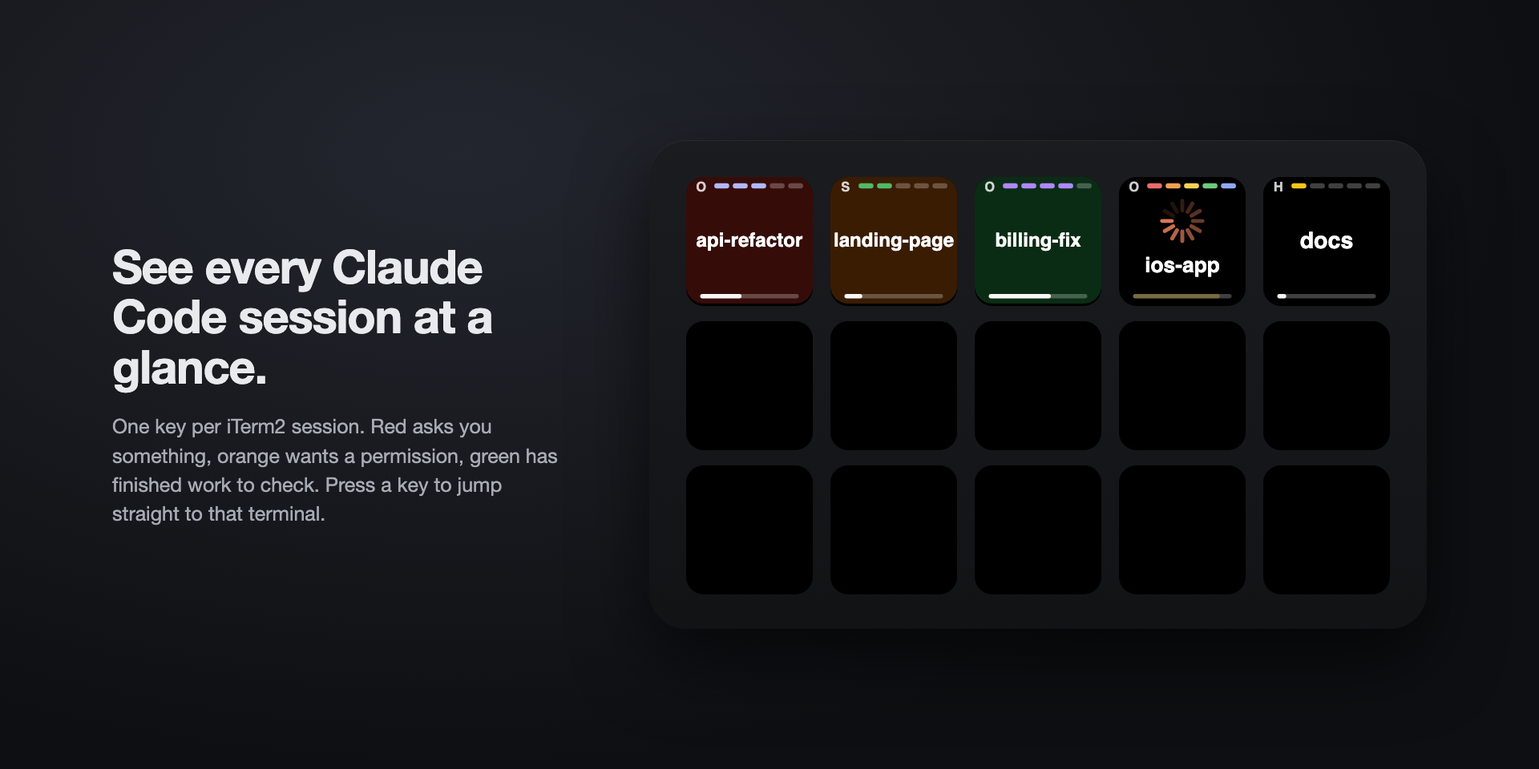
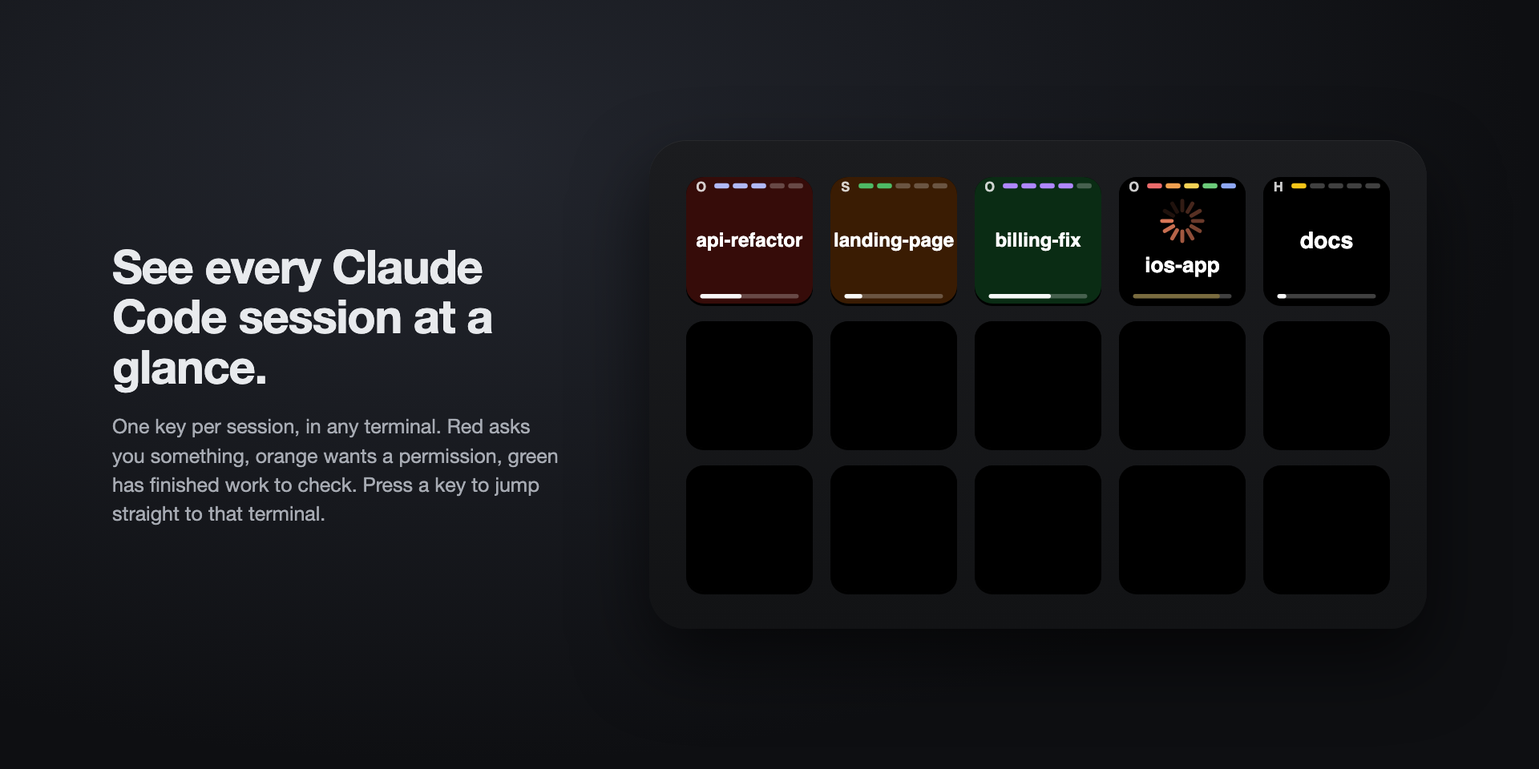
Support any terminal, not just iTerm2 (v1.1.0)
The hook now records the terminal app (bundle id), tty and claude pid
for every session; sessions outside iTerm2 get a cc-<session id> status
file and are listed while their claude process is alive. Pressing a key
jumps to the exact tab in iTerm2 and Terminal, the pane in WezTerm, and
brings other terminals (Ghostty, Warp, kitty, VS Code...) to the front.

Claude-Session: https://claude.ai/code/session_01APigmyGnM7qXp74xMqsF5G

Changed region(s): [[0.0625, 0.5312, 0.3438, 0.6562]]

diff --git a/io.github.jacopopiogargano.ccstatus.sdPlugin/bin/hook-src.js b/io.github.jacopopiogargano.ccstatus.sdPlugin/bin/hook-src.js
@@ -1,2 +1,2 @@
 // Generated by tools/embed-hook.js from src/hook.py. Do not edit.
-module.exports = "#!/usr/bin/python3\n\"\"\"Session Status for Claude Code: hook that records this iTerm session's Claude state for the Stream Deck plugin.\n\nInstalled by the plugin to ~/.claude/session-status/hook.py. Writes ~/.claude/session-status/<iTerm session id>.json. Never blocks or fails the hook.\nOn Stop, decides whether Claude's last message needs a reply (\"waiting\") or not (\"done\"):\na quick heuristic first; if enabled in the plugin settings, a background Haiku classification refines it.\n\"\"\"\nimport json, os, re, shutil, subprocess, sys, time\n\nFOLDER = os.path.expanduser(\"~/.claude/session-status\")\n# only real asks count: a question mark, or phrasing that hands the turn to the user\nASKY = re.compile(r\"\\?|\\b(want me to|should i|shall i|which (one|option)|let me know|your call|\"\n                  r\"tell me (which|what|if)|pick (one|\\d)|say \\\"?go\\\"?)\\b\", re.I)\nLOG = os.path.join(FOLDER, \"classify.log\")\n\n\ndef hook_config():\n    \"\"\"Settings the plugin writes for the hook: {\"haiku\": bool, \"claude\": optional path}.\"\"\"\n    try:\n        with open(os.path.join(FOLDER, \"config.json\")) as f:\n            return json.load(f)\n    except Exception:\n        return {}\n\n\ndef claude_bin(cfg):\n    for c in (cfg.get(\"claude\"), shutil.which(\"claude\"), os.path.expanduser(\"~/.local/bin/claude\"),\n              \"/opt/homebrew/bin/claude\", \"/usr/local/bin/claude\"):\n        if c and os.path.isfile(c) and os.access(c, os.X_OK):\n            return c\n    return None\n\n\ndef write(path, **fields):\n    if \"started\" not in fields:\n        try:\n            with open(path) as f:\n                old = json.load(f).get(\"started\")\n            if old:\n                fields[\"started\"] = old\n        except Exception:\n            pass\n    tmp = path + \".tmp\"\n    with open(tmp, \"w\") as f:\n        json.dump(fields, f)\n    os.replace(tmp, path)\n\n\ndef last_assistant_text(data):\n    if data.get(\"last_assistant_message\"):\n        return data[\"last_assistant_message\"]\n    try:\n        with open(data[\"transcript_path\"]) as f:\n            lines = f.readlines()[-200:]\n    except Exception:\n        return \"\"\n    for line in reversed(lines):\n        try:\n            e = json.loads(line)\n        except Exception:\n            continue\n        if e.get(\"type\") != \"assistant\":\n            continue\n        content = (e.get(\"message\") or {}).get(\"content\") or []\n        text = \"\".join(c.get(\"text\", \"\") for c in content if isinstance(c, dict) and c.get(\"type\") == \"text\")\n        if text.strip():\n            return text\n    return \"\"\n\n\nEFFORT = re.compile(rb'\"output_config\":\\{[^}]*?\"effort\":\"(\\w+)\"')\nMODEL = re.compile(rb'\"model\":\"claude-([a-z]+)')\nSTAMP = re.compile(rb'\"timestamp\":\"(\\d{4}-\\d\\d-\\d\\dT\\d\\d:\\d\\d:\\d\\d)')\nUSAGE = re.compile(rb'\"usage\":\\{\"input_tokens\":(\\d+),\"cache_creation_input_tokens\":(\\d+),\"cache_read_input_tokens\":(\\d+)')\n\n\ndef settings():\n    try:\n        with open(os.path.expanduser(\"~/.claude/settings.json\")) as f:\n            return json.load(f)\n    except Exception:\n        return {}\n\n\ndef session_info(data):\n    \"\"\"(effort, context tokens, context % of the auto-compact window) from the session transcript tail.\"\"\"\n    effort, ctx, model, started = None, None, None, None\n    try:\n        with open(data[\"transcript_path\"], \"rb\") as f:\n            m = STAMP.search(f.read(65536))\n        if m:\n            import calendar\n            started = calendar.timegm(time.strptime(m.group(1).decode(), \"%Y-%m-%dT%H:%M:%S\"))\n    except Exception:\n        pass\n    try:\n        with open(data[\"transcript_path\"], \"rb\") as f:\n            f.seek(0, 2); f.seek(max(0, f.tell() - 600_000))\n            tail = f.read()\n        hits = EFFORT.findall(tail)\n        effort = hits[-1].decode() if hits else None\n        u = USAGE.findall(tail)\n        ctx = sum(int(x) for x in u[-1]) if u else None\n        mm = MODEL.findall(tail)\n        model = mm[-1].decode() if mm else None\n    except Exception:\n        pass\n    if isinstance(data.get(\"model\"), dict):\n        model = (data[\"model\"].get(\"id\") or \"\").replace(\"claude-\", \"\").split(\"-\")[0] or model\n    if isinstance(data.get(\"effort\"), dict):\n        effort = data[\"effort\"].get(\"level\") or effort\n    elif data.get(\"effort\"):\n        effort = data[\"effort\"]\n    cfg = settings()\n    effort = effort or cfg.get(\"effortLevel\")  # fresh session, no request yet: configured default\n    window = cfg.get(\"autoCompactWindow\") or 200_000\n    pct = round(100 * ctx / window) if ctx is not None else None\n    info = {\"effort\": effort, \"ctx\": ctx, \"ctx_pct\": pct, \"model\": model}\n    if started:\n        info[\"started\"] = started\n    return info\n\n\nFOLLOW = re.compile(r\"\\b(installed|deployed|pushed|fixed|added|updated|built|changed|now (shows|has|uses)|next step|you('ll| will) need to|please (check|test|try|run|restart|review|look)|\"\n                    r\"tell me (if|whether)|let me know (if|whether)|try it|check (it|that|on)|restart)\\b\", re.I)\n\n\ndef heuristic(text):\n    \"\"\"Quick first guess; Haiku refines it. waiting = needs an answer, done = follow-up for the user, idle = nothing.\"\"\"\n    tail = text.strip()[-300:]\n    return \"waiting\" if ASKY.search(tail) else \"done\" if FOLLOW.search(text.strip()[-800:]) else \"idle\"\n\n\ndef classify_later(path, text, stamp):\n    \"\"\"Detach and ask Haiku whether the message needs a reply; update only if nothing newer happened.\"\"\"\n    if os.fork():\n        return\n    os.setsid()\n    if os.fork():\n        os._exit(0)\n    try:\n        prompt = (\"Classify the final message an AI coding assistant sent to its user.\\n\"\n                  \"WAITING = the message explicitly asks the user something: a direct question, a request to pick \"\n                  \"or choose between options, to confirm/approve, to provide information, or to say 'go'.\\n\"\n                  \"FOLLOWUP = no question, but there is something for the user to look at: the assistant built, \"\n                  \"changed, fixed, installed, deployed or pushed something the user would want to check out or try, \"\n                  \"or it left a step for the user (a test, restart, setting, merge, something unverified).\\n\"\n                  \"DONE = nothing new to look at: an answer, an explanation, an investigation that changed nothing, \"\n                  \"a plain acknowledgement, or a report that nothing needed changing.\\n\"\n                  \"Examples:\\n\"\n                  \"'Which option do you prefer, A or B?' -> WAITING\\n\"\n                  \"'Pick 3 and I will build them.' -> WAITING\\n\"\n                  \"'Fixed and installed. Restart the app and check the key turns dark.' -> FOLLOWUP\\n\"\n                  \"'Pushed to dev. The release still needs dev merged into main.' -> FOLLOWUP\\n\"\n                  \"'Tests pass and the fix is deployed.' -> FOLLOWUP (a finished change worth trying)\\n\"\n                  \"'Added the dark mode toggle to the settings page.' -> FOLLOWUP\\n\"\n                  \"'Done. Say if you want the old layout back.' (after making a change) -> FOLLOWUP\\n\"\n                  \"'The bug was caused by X; here is how it works.' -> DONE\\n\"\n                  \"'The file already has that setting, nothing to change.' -> DONE\\n\"\n                  \"'Ciao! Everything is saved.' -> DONE\\n\"\n                  \"'Red now means the session is asking you something; green means a next step.' -> DONE \"\n                  \"(it describes questions, it does not ask one)\\n\"\n                  \"Only an actual request addressed to the user counts as WAITING, not text that talks about questions.\\n\"\n                  \"When the assistant delivered or changed something, prefer FOLLOWUP over DONE.\\n\"\n                  \"Judge the message as a whole, mainly its ending. \"\n                  \"Reply with exactly one word: WAITING, FOLLOWUP or DONE.\\n\\n<message>\\n\" + text[-4000:] + \"\\n</message>\")\n        env = {k: v for k, v in os.environ.items() if k not in (\"ITERM_SESSION_ID\", \"CLAUDECODE\")}\n        out = subprocess.run(\n            [CLAUDE, \"-p\", \"--model\", \"haiku\", \"--no-session-persistence\",\n             \"--settings\", '{\"disableAllHooks\": true}', prompt],\n            capture_output=True, text=True, timeout=60, env=env, stdin=subprocess.DEVNULL).stdout.upper()\n        # deck states: waiting = red, done = green (follow-up for the user), idle = nothing to do\n        verdict = \"waiting\" if \"WAITING\" in out else \"done\" if \"FOLLOWUP\" in out else \"idle\" if \"DONE\" in out else None\n        if verdict == \"waiting\" and not ASKY.search(text.strip()[-600:]):\n            verdict = \"done\"  # no question or hand-over phrase near the end: at most a follow-up\n        applied = False\n        if verdict:\n            with open(path) as f:\n                cur = json.load(f)\n            if cur.get(\"ts\") == stamp:  # no newer hook event since this Stop\n                cur.update(state=verdict, judged=\"haiku\")\n                write(path, **cur)\n                applied = True\n        with open(LOG, \"a\") as f:\n            f.write(json.dumps({\"ts\": stamp, \"took\": round(time.time() - stamp, 1), \"sid\": os.path.basename(path)[:8],\n                                \"heuristic\": heuristic(text), \"haiku\": verdict, \"raw\": out[:40], \"applied\": applied,\n                                \"tail\": text.strip()[-120:]}) + \"\\n\")\n    except Exception as e:\n        try:\n            with open(LOG, \"a\") as f:\n                f.write(json.dumps({\"ts\": stamp, \"error\": repr(e)[:300]}) + \"\\n\")\n        except Exception:\n            pass\n    os._exit(0)\n\n\ndef headless_claude():\n    \"\"\"True if this hook was fired by a non-interactive `claude -p` run (e.g. one an app spawned from this tab).\"\"\"\n    pid = os.getppid()\n    for _ in range(4):\n        try:\n            out = subprocess.run([\"/bin/ps\", \"-o\", \"ppid=,command=\", \"-p\", str(pid)], capture_output=True, text=True, timeout=2).stdout.strip()\n        except Exception:\n            return False\n        if not out:\n            return False\n        ppid, _, cmd = out.partition(\" \")\n        args = cmd.split()\n        if args and os.path.basename(args[0]) == \"claude\":\n            return \"-p\" in args or \"--print\" in args\n        pid = int(ppid)\n    return False\n\n\ntry:\n    data = json.load(sys.stdin)\n    if headless_claude():\n        sys.exit(0)\n    iterm = os.environ.get(\"ITERM_SESSION_ID\", \"\")  # e.g. \"w0t1p0:6A1B2C3D-...\"\n    if not iterm:\n        sys.exit(0)\n    sid = iterm.split(\":\")[-1]\n    os.makedirs(FOLDER, exist_ok=True)\n    path = os.path.join(FOLDER, sid + \".json\")\n    event = data.get(\"hook_event_name\", \"\")\n    cwd = data.get(\"cwd\") or os.getcwd()\n\n    if event == \"SessionEnd\":\n        if os.path.exists(path):\n            os.remove(path)\n        sys.exit(0)\n\n    if event == \"Stop\":\n        text = last_assistant_text(data)\n        stamp = time.time()\n        write(path, state=heuristic(text), cwd=cwd, event=event, ts=stamp, judged=\"heuristic\", **session_info(data),\n              session=(data.get(\"session_id\") or \"\")[:8])\n        hc = hook_config()\n        CLAUDE = claude_bin(hc) if hc.get(\"haiku\") else None\n        if text.strip() and CLAUDE:\n            classify_later(path, text, stamp)\n        sys.exit(0)\n\n    state = {\"SessionStart\": \"idle\", \"UserPromptSubmit\": \"working\", \"PreToolUse\": \"working\",\n             \"PostToolUse\": \"working\"}.get(event)\n    # Claude is blocked on the user: question box, plan approval, permission dialog\n    if event == \"PermissionRequest\" or (event == \"PreToolUse\" and data.get(\"tool_name\") in (\"AskUserQuestion\", \"ExitPlanMode\")):\n        state = \"waiting\"\n    if event == \"Notification\":\n        kind = data.get(\"notification_type\", \"\")\n        msg = (data.get(\"message\") or \"\").lower()\n        if kind == \"idle_prompt\" or \"waiting for your input\" in msg:\n            sys.exit(0)  # idle reminder: keep whatever Stop decided\n        state = \"waiting\"  # permission prompt etc.\n    if not state:\n        sys.exit(0)\n    # waiting kind: \"perm\" = permission dialog (quick approve), \"ask\" = question/plan for the user\n    kind = None\n    if state == \"waiting\":\n        if data.get(\"tool_name\") in (\"AskUserQuestion\", \"ExitPlanMode\"):\n            kind = \"ask\"\n        elif event == \"PermissionRequest\" or data.get(\"notification_type\") == \"permission_prompt\":\n            kind = \"perm\"\n        else:  # other notification: keep what the earlier event decided\n            try:\n                with open(path) as f:\n                    kind = json.load(f).get(\"kind\") or \"perm\"\n            except Exception:\n                kind = \"perm\"\n    write(path, state=state, kind=kind, cwd=cwd, event=event, ts=time.time(), tool=data.get(\"tool_name\"),\n          agent=data.get(\"agent_id\") or data.get(\"agent_type\"), session=(data.get(\"session_id\") or \"\")[:8],\n          **session_info(data))\nexcept Exception:\n    pass\nsys.exit(0)\n";
+module.exports = "#!/usr/bin/python3\n\"\"\"Session Status for Claude Code: hook that records this terminal session's Claude state for the Stream Deck plugin.\n\nInstalled by the plugin to ~/.claude/session-status/hook.py. Writes ~/.claude/session-status/<iTerm session id or \"cc-\"+Claude session id>.json. Never blocks or fails the hook.\nOn Stop, decides whether Claude's last message needs a reply (\"waiting\") or not (\"done\"):\na quick heuristic first; if enabled in the plugin settings, a background Haiku classification refines it.\n\"\"\"\nimport json, os, re, shutil, subprocess, sys, time\n\nFOLDER = os.path.expanduser(\"~/.claude/session-status\")\n# only real asks count: a question mark, or phrasing that hands the turn to the user\nASKY = re.compile(r\"\\?|\\b(want me to|should i|shall i|which (one|option)|let me know|your call|\"\n                  r\"tell me (which|what|if)|pick (one|\\d)|say \\\"?go\\\"?)\\b\", re.I)\nLOG = os.path.join(FOLDER, \"classify.log\")\n\n\ndef hook_config():\n    \"\"\"Settings the plugin writes for the hook: {\"haiku\": bool, \"claude\": optional path}.\"\"\"\n    try:\n        with open(os.path.join(FOLDER, \"config.json\")) as f:\n            return json.load(f)\n    except Exception:\n        return {}\n\n\ndef claude_bin(cfg):\n    for c in (cfg.get(\"claude\"), shutil.which(\"claude\"), os.path.expanduser(\"~/.local/bin/claude\"),\n              \"/opt/homebrew/bin/claude\", \"/usr/local/bin/claude\"):\n        if c and os.path.isfile(c) and os.access(c, os.X_OK):\n            return c\n    return None\n\n\ndef write(path, **fields):\n    if \"started\" not in fields:\n        try:\n            with open(path) as f:\n                old = json.load(f).get(\"started\")\n            if old:\n                fields[\"started\"] = old\n        except Exception:\n            pass\n    tmp = path + \".tmp\"\n    with open(tmp, \"w\") as f:\n        json.dump(fields, f)\n    os.replace(tmp, path)\n\n\ndef last_assistant_text(data):\n    if data.get(\"last_assistant_message\"):\n        return data[\"last_assistant_message\"]\n    try:\n        with open(data[\"transcript_path\"]) as f:\n            lines = f.readlines()[-200:]\n    except Exception:\n        return \"\"\n    for line in reversed(lines):\n        try:\n            e = json.loads(line)\n        except Exception:\n            continue\n        if e.get(\"type\") != \"assistant\":\n            continue\n        content = (e.get(\"message\") or {}).get(\"content\") or []\n        text = \"\".join(c.get(\"text\", \"\") for c in content if isinstance(c, dict) and c.get(\"type\") == \"text\")\n        if text.strip():\n            return text\n    return \"\"\n\n\nEFFORT = re.compile(rb'\"output_config\":\\{[^}]*?\"effort\":\"(\\w+)\"')\nMODEL = re.compile(rb'\"model\":\"claude-([a-z]+)')\nSTAMP = re.compile(rb'\"timestamp\":\"(\\d{4}-\\d\\d-\\d\\dT\\d\\d:\\d\\d:\\d\\d)')\nUSAGE = re.compile(rb'\"usage\":\\{\"input_tokens\":(\\d+),\"cache_creation_input_tokens\":(\\d+),\"cache_read_input_tokens\":(\\d+)')\n\n\ndef settings():\n    try:\n        with open(os.path.expanduser(\"~/.claude/settings.json\")) as f:\n            return json.load(f)\n    except Exception:\n        return {}\n\n\ndef session_info(data):\n    \"\"\"(effort, context tokens, context % of the auto-compact window) from the session transcript tail.\"\"\"\n    effort, ctx, model, started = None, None, None, None\n    try:\n        with open(data[\"transcript_path\"], \"rb\") as f:\n            m = STAMP.search(f.read(65536))\n        if m:\n            import calendar\n            started = calendar.timegm(time.strptime(m.group(1).decode(), \"%Y-%m-%dT%H:%M:%S\"))\n    except Exception:\n        pass\n    try:\n        with open(data[\"transcript_path\"], \"rb\") as f:\n            f.seek(0, 2); f.seek(max(0, f.tell() - 600_000))\n            tail = f.read()\n        hits = EFFORT.findall(tail)\n        effort = hits[-1].decode() if hits else None\n        u = USAGE.findall(tail)\n        ctx = sum(int(x) for x in u[-1]) if u else None\n        mm = MODEL.findall(tail)\n        model = mm[-1].decode() if mm else None\n    except Exception:\n        pass\n    if isinstance(data.get(\"model\"), dict):\n        model = (data[\"model\"].get(\"id\") or \"\").replace(\"claude-\", \"\").split(\"-\")[0] or model\n    if isinstance(data.get(\"effort\"), dict):\n        effort = data[\"effort\"].get(\"level\") or effort\n    elif data.get(\"effort\"):\n        effort = data[\"effort\"]\n    cfg = settings()\n    effort = effort or cfg.get(\"effortLevel\")  # fresh session, no request yet: configured default\n    window = cfg.get(\"autoCompactWindow\") or 200_000\n    pct = round(100 * ctx / window) if ctx is not None else None\n    info = {\"effort\": effort, \"ctx\": ctx, \"ctx_pct\": pct, \"model\": model}\n    if started:\n        info[\"started\"] = started\n    return info\n\n\nFOLLOW = re.compile(r\"\\b(installed|deployed|pushed|fixed|added|updated|built|changed|now (shows|has|uses)|next step|you('ll| will) need to|please (check|test|try|run|restart|review|look)|\"\n                    r\"tell me (if|whether)|let me know (if|whether)|try it|check (it|that|on)|restart)\\b\", re.I)\n\n\ndef heuristic(text):\n    \"\"\"Quick first guess; Haiku refines it. waiting = needs an answer, done = follow-up for the user, idle = nothing.\"\"\"\n    tail = text.strip()[-300:]\n    return \"waiting\" if ASKY.search(tail) else \"done\" if FOLLOW.search(text.strip()[-800:]) else \"idle\"\n\n\ndef classify_later(path, text, stamp):\n    \"\"\"Detach and ask Haiku whether the message needs a reply; update only if nothing newer happened.\"\"\"\n    if os.fork():\n        return\n    os.setsid()\n    if os.fork():\n        os._exit(0)\n    try:\n        prompt = (\"Classify the final message an AI coding assistant sent to its user.\\n\"\n                  \"WAITING = the message explicitly asks the user something: a direct question, a request to pick \"\n                  \"or choose between options, to confirm/approve, to provide information, or to say 'go'.\\n\"\n                  \"FOLLOWUP = no question, but there is something for the user to look at: the assistant built, \"\n                  \"changed, fixed, installed, deployed or pushed something the user would want to check out or try, \"\n                  \"or it left a step for the user (a test, restart, setting, merge, something unverified).\\n\"\n                  \"DONE = nothing new to look at: an answer, an explanation, an investigation that changed nothing, \"\n                  \"a plain acknowledgement, or a report that nothing needed changing.\\n\"\n                  \"Examples:\\n\"\n                  \"'Which option do you prefer, A or B?' -> WAITING\\n\"\n                  \"'Pick 3 and I will build them.' -> WAITING\\n\"\n                  \"'Fixed and installed. Restart the app and check the key turns dark.' -> FOLLOWUP\\n\"\n                  \"'Pushed to dev. The release still needs dev merged into main.' -> FOLLOWUP\\n\"\n                  \"'Tests pass and the fix is deployed.' -> FOLLOWUP (a finished change worth trying)\\n\"\n                  \"'Added the dark mode toggle to the settings page.' -> FOLLOWUP\\n\"\n                  \"'Done. Say if you want the old layout back.' (after making a change) -> FOLLOWUP\\n\"\n                  \"'The bug was caused by X; here is how it works.' -> DONE\\n\"\n                  \"'The file already has that setting, nothing to change.' -> DONE\\n\"\n                  \"'Ciao! Everything is saved.' -> DONE\\n\"\n                  \"'Red now means the session is asking you something; green means a next step.' -> DONE \"\n                  \"(it describes questions, it does not ask one)\\n\"\n                  \"Only an actual request addressed to the user counts as WAITING, not text that talks about questions.\\n\"\n                  \"When the assistant delivered or changed something, prefer FOLLOWUP over DONE.\\n\"\n                  \"Judge the message as a whole, mainly its ending. \"\n                  \"Reply with exactly one word: WAITING, FOLLOWUP or DONE.\\n\\n<message>\\n\" + text[-4000:] + \"\\n</message>\")\n        env = {k: v for k, v in os.environ.items() if k not in (\"ITERM_SESSION_ID\", \"CLAUDECODE\")}\n        out = subprocess.run(\n            [CLAUDE, \"-p\", \"--model\", \"haiku\", \"--no-session-persistence\",\n             \"--settings\", '{\"disableAllHooks\": true}', prompt],\n            capture_output=True, text=True, timeout=60, env=env, stdin=subprocess.DEVNULL).stdout.upper()\n        # deck states: waiting = red, done = green (follow-up for the user), idle = nothing to do\n        verdict = \"waiting\" if \"WAITING\" in out else \"done\" if \"FOLLOWUP\" in out else \"idle\" if \"DONE\" in out else None\n        if verdict == \"waiting\" and not ASKY.search(text.strip()[-600:]):\n            verdict = \"done\"  # no question or hand-over phrase near the end: at most a follow-up\n        applied = False\n        if verdict:\n            with open(path) as f:\n                cur = json.load(f)\n            if cur.get(\"ts\") == stamp:  # no newer hook event since this Stop\n                cur.update(state=verdict, judged=\"haiku\")\n                write(path, **cur)\n                applied = True\n        with open(LOG, \"a\") as f:\n            f.write(json.dumps({\"ts\": stamp, \"took\": round(time.time() - stamp, 1), \"sid\": os.path.basename(path)[:8],\n                                \"heuristic\": heuristic(text), \"haiku\": verdict, \"raw\": out[:40], \"applied\": applied,\n                                \"tail\": text.strip()[-120:]}) + \"\\n\")\n    except Exception as e:\n        try:\n            with open(LOG, \"a\") as f:\n                f.write(json.dumps({\"ts\": stamp, \"error\": repr(e)[:300]}) + \"\\n\")\n        except Exception:\n            pass\n    os._exit(0)\n\n\ndef claude_process():\n    \"\"\"(pid, tty, headless) of the claude process that fired this hook, or (None, \"\", False).\n    headless = a non-interactive `claude -p` run (e.g. one an app spawned from a terminal tab).\"\"\"\n    pid = os.getppid()\n    for _ in range(4):\n        try:\n            out = subprocess.run([\"/bin/ps\", \"-o\", \"ppid=,tty=,command=\", \"-p\", str(pid)], capture_output=True, text=True, timeout=2).stdout.strip()\n        except Exception:\n            break\n        if not out:\n            break\n        parts = out.split(None, 2)\n        if len(parts) < 3:\n            break\n        ppid, tty, cmd = parts\n        args = cmd.split()\n        exe = os.path.basename(args[0])\n        if exe == \"claude\" or (exe == \"node\" and len(args) > 1 and \"claude\" in args[1]):\n            return pid, (\"\" if tty in (\"??\", \"-\") else \"/dev/\" + tty), (\"-p\" in args or \"--print\" in args)\n        pid = int(ppid)\n    return None, \"\", False\n\n\ndef terminal_info():\n    \"\"\"Which terminal app this session runs in, so the plugin can jump back to it.\"\"\"\n    env = os.environ\n    term = env.get(\"TERM_PROGRAM\", \"\")\n    if env.get(\"ITERM_SESSION_ID\"):\n        term = \"iTerm.app\"\n    elif env.get(\"KITTY_WINDOW_ID\"):\n        term = \"kitty\"\n    info = {\"term\": term, \"app\": env.get(\"__CFBundleIdentifier\", \"\")}\n    if env.get(\"WEZTERM_PANE\"):\n        info[\"pane\"] = env[\"WEZTERM_PANE\"]\n    if env.get(\"TMUX\"):\n        info[\"tmux\"] = True\n    return info\n\n\ntry:\n    data = json.load(sys.stdin)\n    cpid, tty, headless = claude_process()\n    if headless:\n        sys.exit(0)\n    # one file per terminal session: iTerm2 has a stable session id; elsewhere use Claude's own session id\n    iterm = os.environ.get(\"ITERM_SESSION_ID\", \"\")  # e.g. \"w0t1p0:6A1B2C3D-...\"\n    if iterm:\n        sid = iterm.split(\":\")[-1]\n    elif data.get(\"session_id\"):\n        sid = \"cc-\" + data[\"session_id\"]\n    else:\n        sys.exit(0)\n    where = dict(terminal_info(), pid=cpid, tty=tty)\n    os.makedirs(FOLDER, exist_ok=True)\n    path = os.path.join(FOLDER, sid + \".json\")\n    event = data.get(\"hook_event_name\", \"\")\n    cwd = data.get(\"cwd\") or os.getcwd()\n\n    if event == \"SessionEnd\":\n        if os.path.exists(path):\n            os.remove(path)\n        sys.exit(0)\n\n    if event == \"Stop\":\n        text = last_assistant_text(data)\n        stamp = time.time()\n        write(path, state=heuristic(text), cwd=cwd, event=event, ts=stamp, judged=\"heuristic\", **session_info(data), **where,\n              session=(data.get(\"session_id\") or \"\")[:8])\n        hc = hook_config()\n        CLAUDE = claude_bin(hc) if hc.get(\"haiku\") else None\n        if text.strip() and CLAUDE:\n            classify_later(path, text, stamp)\n        sys.exit(0)\n\n    state = {\"SessionStart\": \"idle\", \"UserPromptSubmit\": \"working\", \"PreToolUse\": \"working\",\n             \"PostToolUse\": \"working\"}.get(event)\n    # Claude is blocked on the user: question box, plan approval, permission dialog\n    if event == \"PermissionRequest\" or (event == \"PreToolUse\" and data.get(\"tool_name\") in (\"AskUserQuestion\", \"ExitPlanMode\")):\n        state = \"waiting\"\n    if event == \"Notification\":\n        kind = data.get(\"notification_type\", \"\")\n        msg = (data.get(\"message\") or \"\").lower()\n        if kind == \"idle_prompt\" or \"waiting for your input\" in msg:\n            sys.exit(0)  # idle reminder: keep whatever Stop decided\n        state = \"waiting\"  # permission prompt etc.\n    if not state:\n        sys.exit(0)\n    # waiting kind: \"perm\" = permission dialog (quick approve), \"ask\" = question/plan for the user\n    kind = None\n    if state == \"waiting\":\n        if data.get(\"tool_name\") in (\"AskUserQuestion\", \"ExitPlanMode\"):\n            kind = \"ask\"\n        elif event == \"PermissionRequest\" or data.get(\"notification_type\") == \"permission_prompt\":\n            kind = \"perm\"\n        else:  # other notification: keep what the earlier event decided\n            try:\n                with open(path) as f:\n                    kind = json.load(f).get(\"kind\") or \"perm\"\n            except Exception:\n                kind = \"perm\"\n    write(path, state=state, kind=kind, cwd=cwd, event=event, ts=time.time(), tool=data.get(\"tool_name\"),\n          agent=data.get(\"agent_id\") or data.get(\"agent_type\"), session=(data.get(\"session_id\") or \"\")[:8],\n          **session_info(data), **where)\nexcept Exception:\n    pass\nsys.exit(0)\n";

diff --git a/io.github.jacopopiogargano.ccstatus.sdPlugin/bin/plugin.js b/io.github.jacopopiogargano.ccstatus.sdPlugin/bin/plugin.js
@@ -1,6 +1,6 @@
 // Session Status for Claude Code — Stream Deck plugin.
-// One key per iTerm2 session running Claude Code, coloured by what that session needs from you.
-// State comes from ~/.claude/session-status/<iTerm session id>.json, written by the bundled hook (src/hook.py, shipped inside bin/hook-src.js).
+// One key per Claude Code session (iTerm2, Terminal, Ghostty, Warp, WezTerm, kitty, VS Code…), coloured by what it needs from you.
+// State comes from ~/.claude/session-status/<iTerm session id | cc-<Claude session id>>.json, written by the bundled hook (src/hook.py, shipped inside bin/hook-src.js).
 "use strict";
 
 // Node 20 only exposes WebSocket behind a flag: relaunch ourselves with it.
@@ -60,7 +60,7 @@ function applyGlobal(g) {
 
 // ---------------------------------------------------------------- Stream Deck socket
 const keys = new Map();       // context -> slot (1-based)
-let sessions = [];            // sorted, filtered iTerm sessions
+let sessions = [];            // sorted, filtered sessions (iTerm2 tabs + Claude sessions in other terminals)
 const lastImage = new Map();
 let frame = 0, page = 0;
 
@@ -109,7 +109,10 @@ function onInspector(m) {
   }
 }
 
-// ---------------------------------------------------------------- iTerm2 via JXA (never launches iTerm)
+// ---------------------------------------------------------------- sessions
+// iTerm2 is listed via JXA (never launches it), so tabs show even before Claude starts and keep tab order.
+// Every other terminal is found from the hook's status files ("cc-<session id>.json"), which record the
+// terminal app, tty and claude pid; a file whose claude process is gone is cleaned up.
 const LIST_JS = `
 const app = Application("iTerm2");
 if (!app.running()) { "[]" } else {
@@ -122,32 +125,76 @@ if (!app.running()) { "[]" } else {
   JSON.stringify(out);
 }`;
 
-function listSessions() {
+let lastIterm = [];
+const HAS_ITERM = ["/Applications/iTerm.app", path.join(os.homedir(), "Applications/iTerm.app")].some((p) => fs.existsSync(p));
+function listIterm() {
+  if (!HAS_ITERM) return Promise.resolve([]);   // never ask macOS to find an app that is not installed
   return new Promise((resolve) => {
     execFile("/usr/bin/osascript", ["-l", "JavaScript", "-e", LIST_JS], { timeout: 4000 }, (err, stdout) => {
-      if (err) return resolve(null);
+      if (err) return resolve(lastIterm);
       try {
-        const list = JSON.parse(stdout.trim() || "[]");
+        const list = JSON.parse(stdout.trim() || "[]").map((o) => ({ ...o, iterm: true }));
         list.sort((a, b) => a.win - b.win || a.tab - b.tab || a.idx - b.idx);   // tab order
-        resolve(list);
-      } catch { resolve(null); }
+        resolve((lastIterm = list));
+      } catch { resolve(lastIterm); }
     });
   });
 }
 
+const alive = (pid) => { try { process.kill(pid, 0); return true; } catch (e) { return e.code === "EPERM"; } };
+
+function listOther() {
+  const out = [];
+  let files = [];
+  try { files = fs.readdirSync(STATUS_DIR).filter((f) => f.startsWith("cc-") && f.endsWith(".json")); } catch {}
+  for (const f of files) {
+    const file = path.join(STATUS_DIR, f);
+    try {
+      const st = JSON.parse(fs.readFileSync(file, "utf8"));
+      if (!st.pid || !alive(st.pid)) {            // Claude exited without SessionEnd (closed window, crash)
+        if (Date.now() / 1000 - (st.ts || 0) > 10) fs.unlinkSync(file);
+        continue;
+      }
+      out.push({ id: f.slice(0, -5), name: "", focused: false, term: st.term, app: st.app, tty: st.tty, pane: st.pane, started: st.started || 0 });
+    } catch {}
+  }
+  return out.sort((a, b) => a.started - b.started);
+}
+
+async function listSessions() {
+  return [...(await listIterm()), ...listOther()];
+}
+
+const TERMINAL_JS = (tty) => `
+const app = Application("Terminal");
+let hit = false;
+app.windows().forEach(w => { if (hit) return; w.tabs().forEach(t => { if (!hit && t.tty() === ${JSON.stringify(tty)}) {
+  w.selectedTab = t; w.index = 1; hit = true; } }); });
+app.activate();`;
+// TERM_PROGRAM -> app to bring forward when the hook did not record a bundle id
+const TERM_APP = { Apple_Terminal: "Terminal", ghostty: "Ghostty", WarpTerminal: "Warp", WezTerm: "WezTerm",
+  kitty: "kitty", vscode: "Visual Studio Code", Hyper: "Hyper", Tabby: "Tabby", alacritty: "Alacritty" };
+
 function focus(s) {
-  const js = `
+  const run = (file, args) => execFile(file, args, { timeout: 4000 }, () => {});
+  if (s.iterm) {
+    return run("/usr/bin/osascript", ["-l", "JavaScript", "-e", `
 const app = Application("iTerm2");
 const w = app.windows().find(w => w.id() === ${Number(s.win)});
 if (w) {
   const t = w.tabs()[${Number(s.tab)}];
   w.select(); t.select(); t.sessions()[${Number(s.idx)}].select();
   app.activate();
-}`;
-  execFile("/usr/bin/osascript", ["-l", "JavaScript", "-e", js], { timeout: 4000 }, () => {});
+}`]);
+  }
+  if (s.term === "Apple_Terminal" && s.tty) return run("/usr/bin/osascript", ["-l", "JavaScript", "-e", TERMINAL_JS(s.tty)]);
+  if (s.term === "WezTerm" && s.pane) run("/Applications/WezTerm.app/Contents/MacOS/wezterm", ["cli", "activate-pane", "--pane-id", String(s.pane)]);
+  if (s.app) return run("/usr/bin/open", ["-b", s.app]);
+  if (TERM_APP[s.term]) run("/usr/bin/open", ["-a", TERM_APP[s.term]]);
 }
 
-const runsClaude = (s) => /\(claude\)\s*$/i.test(s.name);
+// iTerm titles the tab "<name> (claude)" while Claude runs; other terminals are only listed while claude is alive
+const runsClaude = (s) => !s.iterm || /\(claude\)\s*$/i.test(s.name);
 
 function readStatus(s) {
   try {
@@ -396,8 +443,7 @@ function render() {
 }
 
 async function tick() {
-  const list = await listSessions();
-  if (list) sessions = sortSessions(list);
+  sessions = sortSessions(await listSessions());
   render();
   setTimeout(tick, POLL_MS);
 }

diff --git a/io.github.jacopopiogargano.ccstatus.sdPlugin/ui/pi.html b/io.github.jacopopiogargano.ccstatus.sdPlugin/ui/pi.html
@@ -52,7 +52,7 @@
 <div class="row"><label for="sort">Order</label><div class="ctl"><select id="sort">
   <option value="start">Started — oldest first</option>
   <option value="newest">Started — newest first</option>
-  <option value="tab">iTerm window / tab order</option>
+  <option value="tab">Terminal tab order (iTerm2 first)</option>
   <option value="urgency">Needs you first</option>
   <option value="activity">Most recently active</option>
   <option value="name">Name A–Z</option>
@@ -60,7 +60,7 @@
 <div class="row"><label for="label">Key title</label><div class="ctl"><select id="label">
   <option value="name">Session / tab name</option><option value="folder">Project folder</option>
 </select></div></div>
-<div class="row"><label></label><div class="ctl"><label><input type="checkbox" id="onlyClaude"> Only terminals running Claude Code</label></div></div>
+<div class="row"><label></label><div class="ctl"><label><input type="checkbox" id="onlyClaude"> iTerm2: hide tabs not running Claude Code</label></div></div>
 <div class="row"><label for="maxSessions">Show at most</label><div class="ctl"><input id="maxSessions" type="number" min="0" max="64"> sessions</div></div>
 <div class="hint">0 = one per session key. Extra keys stay blank.</div>
 <div class="row"><label for="overflow">When there are more</label><div class="ctl"><select id="overflow">

diff --git a/tools/screenshots.js b/tools/screenshots.js
@@ -66,7 +66,7 @@ const blank = () => `<svg xmlns="http://www.w3.org/2000/svg" width="144" height=
 P.setCfg({});
 page("1-overview", `
   <div class="copy"><h1>See every Claude Code session at a glance.</h1>
-  <p>One key per iTerm2 session. Red asks you something, orange wants a permission, green has finished work to check.
+  <p>One key per session, in any terminal. Red asks you something, orange wants a permission, green has finished work to check.
   Press a key to jump straight to that terminal.</p></div>
   ${deck(5, [key(sample.ask), key(sample.perm), key(sample.done), working(sample.work, 9), key(sample.idle),
     blank(), blank(), blank(), blank(), blank(), blank(), blank(), blank(), blank(), blank()].map((s, i) => s))}`);

diff --git a/src/hook.py b/src/hook.py
@@ -1,7 +1,7 @@
 #!/usr/bin/python3
-"""Session Status for Claude Code: hook that records this iTerm session's Claude state for the Stream Deck plugin.
+"""Session Status for Claude Code: hook that records this terminal session's Claude state for the Stream Deck plugin.
 
-Installed by the plugin to ~/.claude/session-status/hook.py. Writes ~/.claude/session-status/<iTerm session id>.json. Never blocks or fails the hook.
+Installed by the plugin to ~/.claude/session-status/hook.py. Writes ~/.claude/session-status/<iTerm session id or "cc-"+Claude session id>.json. Never blocks or fails the hook.
 On Stop, decides whether Claude's last message needs a reply ("waiting") or not ("done"):
 a quick heuristic first; if enabled in the plugin settings, a background Haiku classification refines it.
 """
@@ -194,32 +194,59 @@ def classify_later(path, text, stamp):
     os._exit(0)
 
 
-def headless_claude():
-    """True if this hook was fired by a non-interactive `claude -p` run (e.g. one an app spawned from this tab)."""
+def claude_process():
+    """(pid, tty, headless) of the claude process that fired this hook, or (None, "", False).
+    headless = a non-interactive `claude -p` run (e.g. one an app spawned from a terminal tab)."""
     pid = os.getppid()
     for _ in range(4):
         try:
-            out = subprocess.run(["/bin/ps", "-o", "ppid=,command=", "-p", str(pid)], capture_output=True, text=True, timeout=2).stdout.strip()
+            out = subprocess.run(["/bin/ps", "-o", "ppid=,tty=,command=", "-p", str(pid)], capture_output=True, text=True, timeout=2).stdout.strip()
         except Exception:
-            return False
+            break
         if not out:
-            return False
-        ppid, _, cmd = out.partition(" ")
+            break
+        parts = out.split(None, 2)
+        if len(parts) < 3:
+            break
+        ppid, tty, cmd = parts
         args = cmd.split()
-        if args and os.path.basename(args[0]) == "claude":
-            return "-p" in args or "--print" in args
+        exe = os.path.basename(args[0])
+        if exe == "claude" or (exe == "node" and len(args) > 1 and "claude" in args[1]):
+            return pid, ("" if tty in ("??", "-") else "/dev/" + tty), ("-p" in args or "--print" in args)
         pid = int(ppid)
-    return False
+    return None, "", False
+
+
+def terminal_info():
+    """Which terminal app this session runs in, so the plugin can jump back to it."""
+    env = os.environ
+    term = env.get("TERM_PROGRAM", "")
+    if env.get("ITERM_SESSION_ID"):
+        term = "iTerm.app"
+    elif env.get("KITTY_WINDOW_ID"):
+        term = "kitty"
+    info = {"term": term, "app": env.get("__CFBundleIdentifier", "")}
+    if env.get("WEZTERM_PANE"):
+        info["pane"] = env["WEZTERM_PANE"]
+    if env.get("TMUX"):
+        info["tmux"] = True
+    return info
 
 
 try:
     data = json.load(sys.stdin)
-    if headless_claude():
+    cpid, tty, headless = claude_process()
+    if headless:
         sys.exit(0)
+    # one file per terminal session: iTerm2 has a stable session id; elsewhere use Claude's own session id
     iterm = os.environ.get("ITERM_SESSION_ID", "")  # e.g. "w0t1p0:6A1B2C3D-..."
-    if not iterm:
+    if iterm:
+        sid = iterm.split(":")[-1]
+    elif data.get("session_id"):
+        sid = "cc-" + data["session_id"]
+    else:
         sys.exit(0)
-    sid = iterm.split(":")[-1]
+    where = dict(terminal_info(), pid=cpid, tty=tty)
     os.makedirs(FOLDER, exist_ok=True)
     path = os.path.join(FOLDER, sid + ".json")
     event = data.get("hook_event_name", "")
@@ -233,7 +260,7 @@ try:
     if event == "Stop":
         text = last_assistant_text(data)
         stamp = time.time()
-        write(path, state=heuristic(text), cwd=cwd, event=event, ts=stamp, judged="heuristic", **session_info(data),
+        write(path, state=heuristic(text), cwd=cwd, event=event, ts=stamp, judged="heuristic", **session_info(data), **where,
               session=(data.get("session_id") or "")[:8])
         hc = hook_config()
         CLAUDE = claude_bin(hc) if hc.get("haiku") else None
@@ -269,7 +296,7 @@ try:
                 kind = "perm"
     write(path, state=state, kind=kind, cwd=cwd, event=event, ts=time.time(), tool=data.get("tool_name"),
           agent=data.get("agent_id") or data.get("agent_type"), session=(data.get("session_id") or "")[:8],
-          **session_info(data))
+          **session_info(data), **where)
 except Exception:
     pass
 sys.exit(0)

diff --git a/README.md b/README.md
@@ -1,6 +1,8 @@
 # Session Status for Claude Code — Stream Deck plugin
 
-One Stream Deck key per iTerm2 session running [Claude Code](https://claude.com/claude-code), coloured by what that session needs from you. Press a key to jump straight to that terminal.
+One Stream Deck key per [Claude Code](https://claude.com/claude-code) session, coloured by what that session needs from you. Press a key to jump straight to that terminal.
+
+Works with whatever terminal you use: iTerm2, Terminal, Ghostty, Warp, WezTerm, kitty, Alacritty, and the VS Code / Cursor terminal.
 
 ![Overview](screenshots/1-overview.png)
 
@@ -21,22 +23,31 @@ Each key also shows the model (O / S / H), the effort level, and how full the co
 1. Download `io.github.jacopopiogargano.ccstatus.streamDeckPlugin` from the [latest release](../../releases/latest) and double-click it.
 2. Drag the **Session** action onto as many keys as you want, and give each one a position (1, 2, 3…) in its settings.
 3. In the settings of any Session key, click **Install hook…**. It shows the exact entries it will add to `~/.claude/settings.json`, saves a backup, and only writes after you confirm.
-4. Start (or restart) your Claude Code sessions in iTerm2.
+4. Start (or restart) your Claude Code sessions.
 
 **Remove hook** in the same panel takes out only this plugin's entries.
 
 ## Requirements
 
 - macOS 12+, Stream Deck app 6.9+
-- iTerm2
+- Any terminal app (see below for what pressing a key does in each)
 - `/usr/bin/python3` (run `xcode-select --install` if it is missing)
+
+## Pressing a key
+
+| Terminal | Jumps to |
+|---|---|
+| iTerm2 | the exact window, tab and split pane |
+| Terminal | the exact window and tab |
+| WezTerm | the exact pane |
+| Ghostty, Warp, kitty, Alacritty, VS Code, Cursor, others | brings that app to the front |
 
 ## Settings
 
 All in the key's settings panel:
 
 - **Order:** oldest first, newest first, tab order, needs-you first, most recently active, or by name
-- **How many:** show at most N sessions; key title from the session name or the project folder; only terminals running Claude Code
+- **How many:** show at most N sessions; key title from the tab name or the project folder; in iTerm2, hide tabs not running Claude Code
 - **More sessions than keys:** a "+N" badge on the last key (with "!" if a hidden session needs you), a page key that flips through them, or keep the sessions that need you visible
 - **On each key:** model letter, effort bar and context bar on/off; context warning thresholds; breathing; spinner or still
 - **Colours:** every state colour, the accent, the text, and the effort colours (rainbow on max, or your own)
@@ -46,10 +57,10 @@ All in the key's settings panel:
 
 ## How it works
 
-- `src/hook.py` is a Claude Code hook (shipped inside `bin/hook-src.js`; run `node tools/embed-hook.js` after editing it). The installer writes it to `~/.claude/session-status/hook.py`, and it writes one small JSON file per iTerm2 session to `~/.claude/session-status/`.
+- `src/hook.py` is a Claude Code hook (shipped inside `bin/hook-src.js`; run `node tools/embed-hook.js` after editing it). The installer writes it to `~/.claude/session-status/hook.py`, and it writes one small JSON file per session to `~/.claude/session-status/`, including which terminal app, tty and process the session runs in.
   - The hook command ends in `|| true`, so it never blocks Claude Code, even if the plugin is uninstalled.
   - Nothing leaves your machine, except the optional Haiku check, which goes through your own `claude` CLI.
-- `bin/plugin.js` lists iTerm2 sessions via AppleScript, reads those files, and draws the keys.
+- `bin/plugin.js` reads those files (plus the iTerm2 tab list via AppleScript, so tabs keep their order) and draws the keys. A session disappears when its `claude` process exits.
 
 See [PRIVACY.md](PRIVACY.md) for exactly what the plugin reads and writes.
 

diff --git a/PRIVACY.md b/PRIVACY.md
@@ -6,9 +6,9 @@ Session Status for Claude Code is a Stream Deck plugin. It does not collect, sen
 
 ## What the plugin reads and writes, all on your Mac
 
-- **Claude Code hook events.** A small hook (`~/.claude/session-status/hook.py`) receives session events from Claude Code. It writes one small status file per iTerm2 session to `~/.claude/session-status/`. These files hold the session state (working, waiting, done, idle), the model name, the effort level, and how full the context window is.
+- **Claude Code hook events.** A small hook (`~/.claude/session-status/hook.py`) receives session events from Claude Code. It writes one small status file per session to `~/.claude/session-status/`. These files hold the session state (working, waiting, done, idle), the model name, the effort level, how full the context window is, and which terminal app, tty and process the session runs in (so a key press can jump back to it).
 - **Session transcripts.** To find the model, effort level and context usage, the hook reads the end of the local Claude Code transcript for that session. It reads them only on your Mac and never copies them anywhere else.
-- **iTerm2.** The plugin uses AppleScript to list your iTerm2 sessions and their tab titles, and to focus a session when you press its key.
+- **Your terminal.** If you use iTerm2, the plugin uses AppleScript to list its sessions and tab titles. When you press a key, it uses AppleScript (iTerm2, Terminal), `wezterm cli` (WezTerm) or `open` (other apps) to bring that session to the front.
 - **Claude Code settings.** Only when you click **Install hook…** or **Remove hook** does the plugin edit `~/.claude/settings.json`. It shows you the change first and saves a backup.
 - **Plugin settings.** Your choices (colours, order, and so on) are stored by the Stream Deck app, and also copied to `~/.claude/session-status/config.json` so the hook can read them.
 
